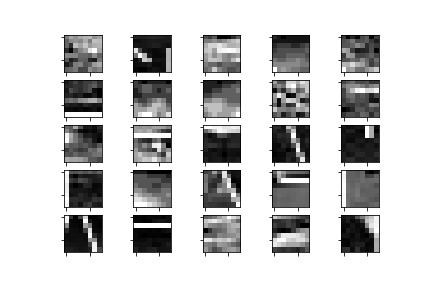
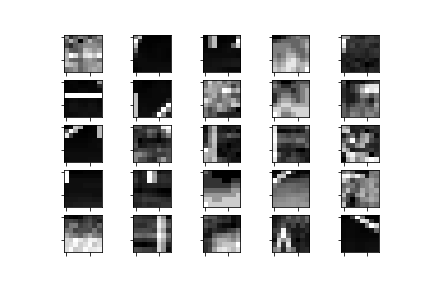
Added Dictionary

diff --git a/HW2/aucookson_homework2.py b/HW2/aucookson_homework2.py
@@ -6,8 +6,10 @@ ECE211A Homework 2
 """
 
 from PIL import Image, ImageDraw, ImageFont
+from sklearn.linear_model import orthogonal_mp
 import skimage.metrics as metrics
 import matplotlib.pyplot as plt
+import matplotlib.gridspec as gridspec
 import numpy as np
 import cv2
 import os
@@ -28,43 +30,52 @@ def extract_patches(img, patch_size=8):
             patches.append(patch)
     return patches
 
-def save_patches(y_patches, m_patches, grid_size=5):
-    indices = random.sample(range(len(y_patches)), grid_size**2)
+# Save a Sampled Grid of Dictionary Atoms
+def save_patch(filename, patches, grid_size=5):
+    indices = random.sample(range(patches.shape[0]), grid_size**2)
     
-    #  %matplotlib qt
-    f_y, axarr_y = plt.subplots(grid_size, grid_size)
-    f_m, axarr_m = plt.subplots(grid_size, grid_size)
+    f_a = plt.figure(figsize = (grid_size,grid_size))
+    gs = gridspec.GridSpec(grid_size, grid_size)
+    gs.update(wspace=0.025, hspace=0.05)
+    
+    #f_a, axarr_a = plt.subplots(grid_size, grid_size)
 
+
+    for i in range(grid_size**2):
+        ax = plt.subplot(gs[i])
+        ax.imshow(patches[indices[i]], cmap='gray')
+        
+        ax.set_xticklabels([])
+        ax.set_yticklabels([])
+    f_a.savefig(filename)
+
+# Save a Sampled Grid of Patches and Masks
+def save_patches(y_patches, m_patches, grid_size=5):
+    indices = random.sample(range(y_patches.shape[0]), grid_size**2)
     
-    i = 0
-    for y in range(grid_size):
-        for x in range(grid_size):
-            axarr_y[y, x].imshow(y_patches[indices[i]], cmap='gray')
-            axarr_m[y, x].imshow(m_patches[indices[i]], cmap='gray')
-            i += 1
-            
-            axarr_y[y, x].set_xticklabels([])
-            axarr_y[y, x].set_yticklabels([])
-            axarr_m[y, x].set_xticklabels([])
-            axarr_m[y, x].set_yticklabels([])
-            
-    f_y.savefig('y_patches.png')
-    f_m.savefig('m_patches.png')
-            
-    # patch_size = y_patches[0].shape[0]
-    # img_y = np.zeros((patch_size*grid_size, patch_size*grid_size))
-    # img_m = np.zeros((patch_size*grid_size, patch_size*grid_size))
-    # indices = random.sample(range(len(y_patches)), grid_size**2)
+    f_y = plt.figure(figsize = (grid_size,grid_size))
+    gs = gridspec.GridSpec(grid_size, grid_size)
+    gs.update(wspace=0.025, hspace=0.05)
+
+    for i in range(grid_size**2):
+        ax = plt.subplot(gs[i])
+        ax.imshow(y_patches[indices[i]], cmap='gray')
+        
+        ax.set_xticklabels([])
+        ax.set_yticklabels([])
+        
+    f_y.savefig('y_patches_2.png')
     
-    # i = 0
-    # for y in range(grid_size):
-    #     for x in range(grid_size):
-    #         img_y[y*patch_size:(y+1)*patch_size, x*patch_size:(x+1)*patch_size] = y_patches[indices[i]]
-    #         img_m[y*patch_size:(y+1)*patch_size, x*patch_size:(x+1)*patch_size] = m_patches[indices[i]]
-    #         i += 1
-            
-    #cv2.imwrite('y_patches.png', img_y)
-    #cv2.imwrite('m_patches.png', img_m)
+    f_m = plt.figure(figsize = (grid_size,grid_size))
+
+    for i in range(grid_size**2):
+        ax = plt.subplot(gs[i])
+        ax.imshow(m_patches[indices[i]], cmap='gray')
+        
+        ax.set_xticklabels([])
+        ax.set_yticklabels([])  
+    
+    f_m.savefig('m_patches_2.png')
 
 
 def draw_text(img, invert=False):
@@ -120,17 +131,33 @@ def load_images():
     m_test_missing = cv2.imread('m_test_missing.png', 0)
     return (y_train, y_test, y_test_missing, m_test_missing)
 
+# Returns Unit Norm Dictionary of Patches
+def random_dict(num_atoms=512, patch_size=8, value_range=256):
+    d = np.random.randint(0, value_range, size=(num_atoms, patch_size, patch_size)).astype(np.float32) 
+    for atom in d:
+        atom /= np.linalg.norm(atom)
+    return d
+
+# Orthogonal Matching Pursuit
+def OMP(A, patch, S=20):
+    coef = orthogonal_mp(A, patch, n_nonzero_coefs=S)
+    return coef
+
 if __name__=='__main__':
-    prepare_images()
+    #prepare_images()
     
     (y_train, y_test, y_test_missing, m_test_missing) = load_images()
     
-    calc_metrics(y_test, y_test_missing)
+    #calc_metrics(y_test, y_test_missing)
     
     y_patches = extract_patches(y_test_missing)
     m_patches = extract_patches(m_test_missing)
     
-    save_patches(y_patches, m_patches)
+    #save_patches(y_patches, m_patches)
     
+    A_dict = random_dict()
+    #save_patches(np.asarray(y_patches), np.asarray(m_patches))
+    
+    print (OMP(A_dict, y_patches[0]))
     
     
